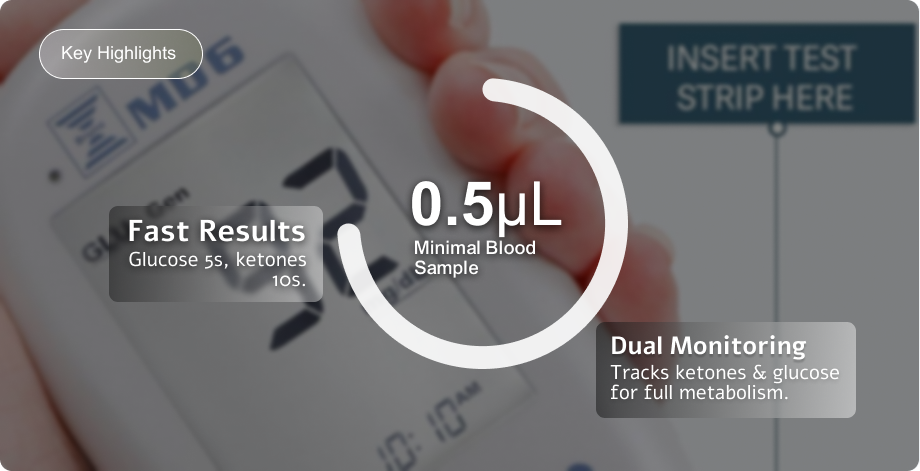
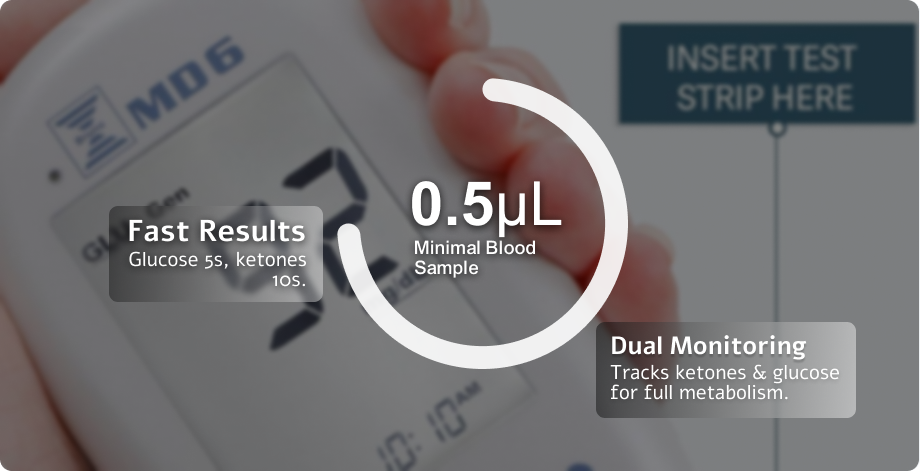
vk changes v1

Changed region(s): [[0.0304, 0.0594, 0.1826, 0.1783], [0.1826, 0.1486, 0.213, 0.1783], [0.1826, 0.0594, 0.213, 0.0892]]

diff --git a/src/components/Hompage/HowItsWork/slider2.js b/src/components/Hompage/HowItsWork/slider2.js
@@ -3,12 +3,12 @@ import Slider from "react-slick";
 import "slick-carousel/slick/slick.css"; 
 import "slick-carousel/slick/slick-theme.css";
 import styles from "./styles.module.css";
-import { FaChevronLeft, FaChevronRight } from "react-icons/fa"; // Import icons
+import { FaChevronLeft, FaChevronRight } from "react-icons/fa";
 
 // Custom Previous Arrow
 const CustomPrevArrow = ({ onClick }) => {
   return (
-    <div className={styles.customArrow} style={{ right: "-60px", opacity: 0.5 }} onClick={onClick}>
+    <div className={styles.customArrow} style={{ left: "-60px", opacity: 0.5 }} onClick={onClick}>
       <FaChevronLeft size={20} />
     </div>
   );
@@ -17,7 +17,7 @@ const CustomPrevArrow = ({ onClick }) => {
 // Custom Next Arrow
 const CustomNextArrow = ({ onClick }) => {
   return (
-    <div className={styles.customArrow} style={{ right: "-110px" }} onClick={onClick}>
+    <div className={styles.customArrow} style={{ right: "-60px" }} onClick={onClick}>
       <FaChevronRight size={20} />
     </div>
   );
@@ -32,25 +32,28 @@ const SlickSlider = () => {
     slidesToScroll: 1,
     autoplay: true,
     autoplaySpeed: 3000,
-    arrows: true, 
-   
+    arrows: false, 
+    fade: true,
+    prevArrow: <CustomPrevArrow />,
+    nextArrow: <CustomNextArrow />,
   };
 
   const slides = [
-    { id: 1, img: "Images/KeyHighlights.png" },
-    { id: 20, img: "Images/KeyHighlights.png" },
-    { id: 30, img: "Images/KeyHighlights.png" },
-    { id: 30, img: "Images/KeyHighlights.png" },
-    { id: 30, img: "Images/KeyHighlights.png" },
-    { id: 30, img: "Images/KeyHighlights.png" }
+    { id: 1, KeyName: " Dual Monitoring", img: "Images/KeyHighlights.png" },
+    { id: 2, KeyName: "High Accuracy Technology", img: "Images/KeyHighlights.png" },
+    { id: 3, KeyName: "Fast Results", img: "Images/KeyHighlights.png" },
+    { id: 4, KeyName: "Minimal Blood Sample", img: "Images/minimalBloodSample.png" },
+    { id: 5, KeyName: "Portable & Travel Friendly", img: "Images/KeyHighlights.png" },
+    { id: 6, KeyName: "Effortless Tracking & Sharing", img: "Images/KeyHighlights.png" }
   ];
 
   return (
     <div className={styles.slider6}>
-      <Slider {...settings}>
+      <Slider className="Slider6" {...settings}>
         {slides.map((slide) => (
           <div key={slide.id} className={styles.slide}>
             <img src={slide.img} alt="Slide" className={styles.sliderImage} />
+            <h4 className={styles.sliderTitle}><b>Key Highlights :</b> {slide.KeyName} </h4>
           </div>
         ))}
       </Slider>

diff --git a/src/index.css b/src/index.css
@@ -165,13 +165,18 @@ background-color: #000 !important;
   right: 0;
 }
 
-.styles_ContentContr__eJAnd .slick-dots{
+.Slider6{
+  margin: 0 0 8px 0;
+
+}
+
+.Slider6 .slick-dots{
   width: 100%;
   bottom: 20px;
   /* display: none !important; */
 }
 
-.styles_ContentContr__eJAnd .slick-dots li button:before {
+.Slider6 .slick-dots li button:before {
   
   width: 20px !important;
   height: 20px !important;
@@ -187,7 +192,7 @@ background-color: #000 !important;
 
 
 
-.styles_ContentContr__eJAnd .slick-dots li.slick-active button:before {
+.Slider6 .slick-dots li.slick-active button:before {
   opacity: 1 ;
   color: black;
   background-color: #2382BC;
@@ -195,11 +200,13 @@ background-color: #000 !important;
 
 }
 
-.styles_ContentContr__eJAnd .slick-dots li {
+.Slider6 .slick-dots li {
   position: relative;
   display: inline-block;
   width: unset !important;
  }
+
+ 
 
 
 @media(max-width:1024px){

diff --git a/src/components/Navbar/styles.module.css b/src/components/Navbar/styles.module.css
@@ -43,7 +43,11 @@
 
 .navLogo{
     max-width: 106px;
-    
+ width: 100%;   
+}
+
+.navLogo img{
+  width: 100%;   
 }
 
 .NavCOntrol{
@@ -58,8 +62,8 @@
     color: #6b6b6b; /* Default color */
     text-decoration: none;
     font-weight: 700;
-    padding: 5px 15px;
-    transition: color 0.3s ease-in-out;
+    /* padding: 5px 15px; */
+    /* transition: color 0.3s ease-in-out; */
   }
   
   .navLink:hover {
@@ -69,9 +73,23 @@
   .active {
     color: #000000; /* Active link color */
     font-weight: bold;
-    border-bottom: 2px solid #000000;
+    border-bottom: 2px solid #000000 ;
+    position: relative;
+    
   }
-  
+
+  .active:before{
+    content: "";
+    position: absolute;
+    width: 100%;
+    height: 2px;
+    background-color: #000000;
+    transition: 0.5s transform ease;
+    transform: scale3d(0, 1, 1);
+    transform-origin: 0 50%;
+    
+  }
+
 
 
 

diff --git a/src/components/Hompage/HowItsWork/styles.module.css b/src/components/Hompage/HowItsWork/styles.module.css
@@ -48,6 +48,29 @@ line-height: normal;
   .slide {
     position: relative;
   }
+
+  .slide .sliderTitle{
+    position: absolute;
+    background: linear-gradient(45deg, #e9e0e572, #7e855e80);
+    font-size: 18px;
+    font-weight: 400;
+    z-index: 1;
+    top: 30px;
+    left: 30px;
+    color: #fff;
+       padding: 10px 20px;
+    border-radius: 20px;
+    border: 1px solid #fff;
+    cursor: pointer;
+ 
+  }
+
+ 
+
+/* amimaton */
+
+/* animation */
+
   
   .slider-image {
     width: 100%;
